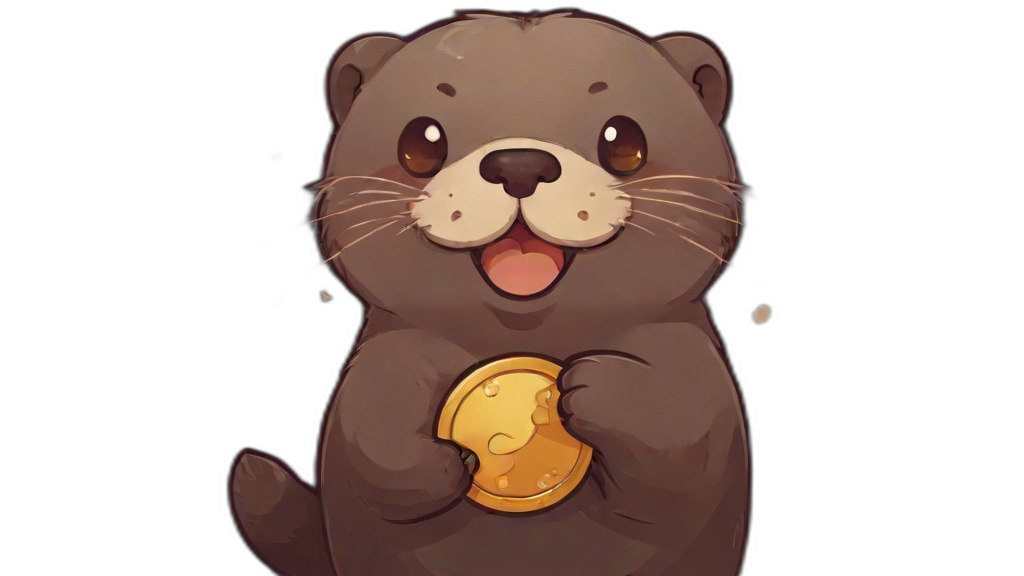
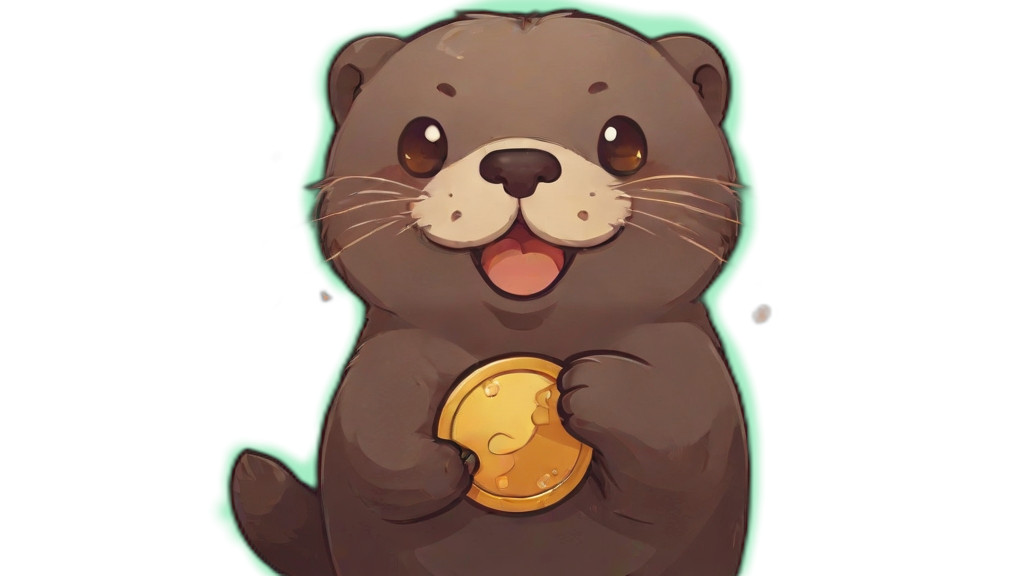
added some animation

diff --git a/src/App.css b/src/App.css
@@ -226,7 +226,6 @@ h2 {
 .tm-bg-dark {
     background-color: rgba(12, 12, 12, 0.5);
     border-radius: 30px 0 30px 0;
-    box-shadow: inset 0 0 30px #c6fcabaf;
 }
 .tm-bg-dark-l{
     background-color: rgba(12, 12, 12, 0.5);
@@ -251,8 +250,30 @@ h2 {
     place-items: center;
 }
 .intro-img-1 {
-    margin-bottom: 20px;
+    margin-bottom: 0px;
 }
+.intro-img-1 {
+    animation: loop 4s infinite;
+    animation-timing-function: cubic-bezier(0.4, 0, 0.6, 1);
+  }
+  
+  @keyframes loop {
+    0% {
+      transform: translateY(0%) scale(1.01);
+    }
+    25% {
+      transform: translateY(2%) scale(1.03);
+    }
+    50% {
+      transform: translateY(0%) scale(1.01);
+    }
+    75% {
+      transform: translateY(-2%) scale(0.99);
+    }
+    100% {
+      transform: translateY(0%) scale(1.01);
+    }
+  }
 
 .intro-circle-1 {
     left: -20px;

diff --git a/src/assets/js/templatemo-script.js b/src/assets/js/templatemo-script.js
@@ -69,9 +69,13 @@ function openPage(no) {
     .fadeIn();
 }
 
-$(window).on('load', function() {
-  $('body').addClass('loaded');
-  openPage(1);
+$(document).ready(function(){
+  $(window).on("load", function() {
+    setTimeout(function(){
+      $('body').addClass('loaded');
+      openPage(1);
+    }, 500);
+  });
 });
 
 jQuery(function() {

diff --git a/src/components/Intro.jsx b/src/components/Intro.jsx
@@ -1,6 +1,6 @@
 import React from 'react'
 import { Link } from 'react-router-dom'
-import homeImg from '../assets/img/home-img-1.jpg'
+import homeImg from '../assets/img/home-img-1.png'
 
 const Intro = () => {
   return (
